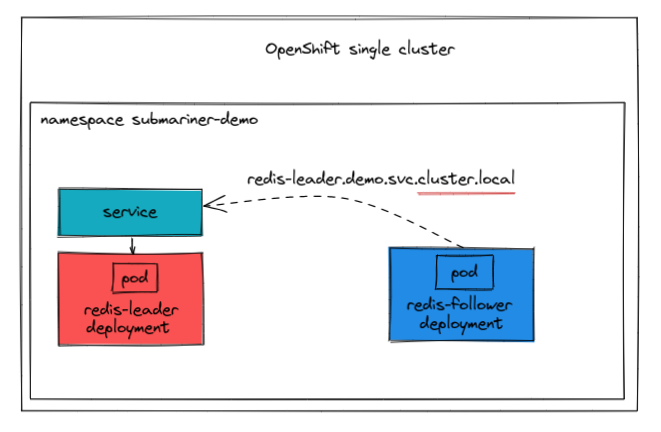
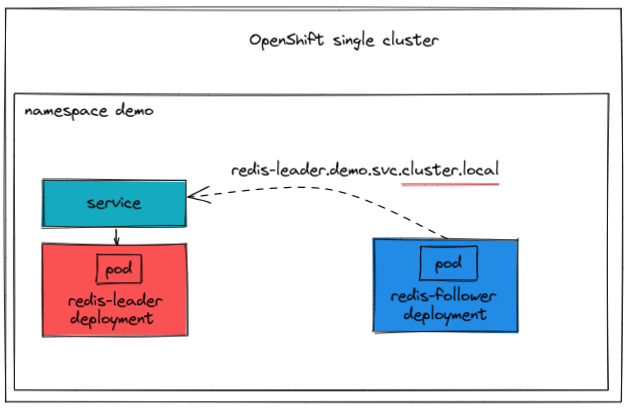
up

diff --git a/README.md b/README.md
@@ -1,35 +1,35 @@
 # Demo Advanced Cluster Security for Kubernetes Submariner Addon
 
-In this demo we deploy a simple Redis cluster on OpenShift Container Platform (OCP) using Advanced Cluster Manager (ACM).
+In this demo we will deploy a simple Redis cluster on OpenShift Container Platform (OCP) using Advanced Cluster Manager (ACM).
+
+Redis is an in-memory data structure store, used as a distributed, in-memory key–value database, cache and message broker, with optional durability.
 
 The Redis cluster is made of two pods:
 
 - a leader: where the data is written by your applications
 - a follower: a replica syncing data from the leader
 
-For the sake of simplicity, this demo doesn't showcase a frontend application writing data to Redis, nor does it support persistent storage.
+For the sake of simplicity, this demo doesn't showcase a frontend application writing data to Redis. Instead we will write data with the `redis-cli` tool, directly from the terminal of the leader pod.
 
-We can imagine any kind of application (todo list, guestbook, etc.) in any kind of language (Python, Go, etc.) writing to the leader node.
+We could imagine any kind of application (todo list, guestbook, etc.) in any kind of language (Python, Go, etc.) writing to the leader node.
 
-So instead of an app, we are going to write directly to the leader using the `redis-cli` utility and check on the follower if data have been replicated.
+## Single vs multi cluster
 
-## Scenario 1 - single cluster deployment
+### Single Cluster (not demoed)
+
+Without Submariner, all components of an application must reside on the same cluster.
 
 ![](https://raw.githubusercontent.com/sebw/submariner-demo/master/screenshots/single.png)
 
-## Scenario 2 - multi cluster deployment
+### Multi Cluster (demoed)
 
 ![](https://raw.githubusercontent.com/sebw/submariner-demo/master/screenshots/multi.png)
 
-### Preparing the environment
-
 Two clusters are present and managed by ACM.
 
-Create a clusterset and put both OCP clusters in it.
+Both clusters reside in a clusterset. The submariner addon must be installed on both nodes.
 
-Then install the submariner add-on on each.
-
-The installation will take a few minutes until all ticks are green.
+The installation takes a few minutes. until all ticks are green.
 
 ![](https://raw.githubusercontent.com/sebw/submariner-demo/master/screenshots/submariner-install1.png)
 
@@ -41,54 +41,14 @@ The installation will take a few minutes until all ticks are green.
 
 ![](https://raw.githubusercontent.com/sebw/submariner-demo/master/screenshots/submariner-install5.png)
 
+## Redis CLI howto
 
-## If you don't want to deploy things using ACM
-
-### Clone repo
-
-```bash
-git clone https://github.com/sebw/submariner-demo.git
-cd single-cluster/
-```
-
-### Log into your OCP
+### Writing data on the leader
 
 ```bash
-# Login
-oc login --token=sha256~XYZ --server=https://your-ocp:6443
+oc login --token=sha256~XXX --server=https://cluster1:6443
+oc rsh $(oc -n demo get pod -o name|head -n1)
 ```
-### Create project
-
-Edit `00-project.yaml`
-
-```yaml
-apiVersion: project.openshift.io/v1
-description: "Demo Submariner"
-displayName: submariner-demo
-kind: ProjectRequest
-metadata:
-  name: submariner-demo
-```
-
-```bash
-oc apply -f 00-project.yaml
-```
-### Deploy leader
-
-```bash
-oc apply -f 01-redis-leader-deployment.yaml
-```
-### Create leader service
-
-```bash
-oc apply -f 02-redis-leader-service.yaml
-```
-### Deploy follower
-
-```bash
-oc apply -f 03-redis-follower-deployment.yaml
-```
-### From now, go in the terminal of the leader pod
 
 ```bash
 # redis-cli
@@ -99,7 +59,12 @@ oc apply -f 03-redis-follower-deployment.yaml
 # "cool"
 ```
 
-### Check replication on follower pod
+### Checking replication on the follower
+
+```bash
+oc login --token=sha256~XXX --server=https://cluster2:6443
+oc rsh $(oc -n demo get pod -o name|head -n1)
+```
 
 ```bash
 # redis-cli
@@ -107,13 +72,9 @@ oc apply -f 03-redis-follower-deployment.yaml
 # "cool"
 ```
 
-Repeat the steps for the multi-cluster scenario by applying the correct configuration files to the correct clusters.
-
-Success!
-
 ## Troubleshooting
 
-You can use the `nettest` container image to troubleshoot:
+You can use the `nettest` container image to troubleshoot potential problems:
 
 ```bash
 oc -n default run submariner-test --rm -ti --image quay.io/submariner/nettest -- /bin/bash
@@ -128,5 +89,7 @@ curl redis-leader.demo.svc.clusterset.local:6379
 # Sources
 
 https://rcarrata.github.io/openshift/rhacm-submariner-2/
+
 https://hackmd.io/@-NygPmSYSkulcwHiqKwsuw/submariner
+
 https://access.redhat.com/documentation/en-us/red_hat_advanced_cluster_management_for_kubernetes/2.6/html-single/add-ons/index#enable-service-discovery-submariner
